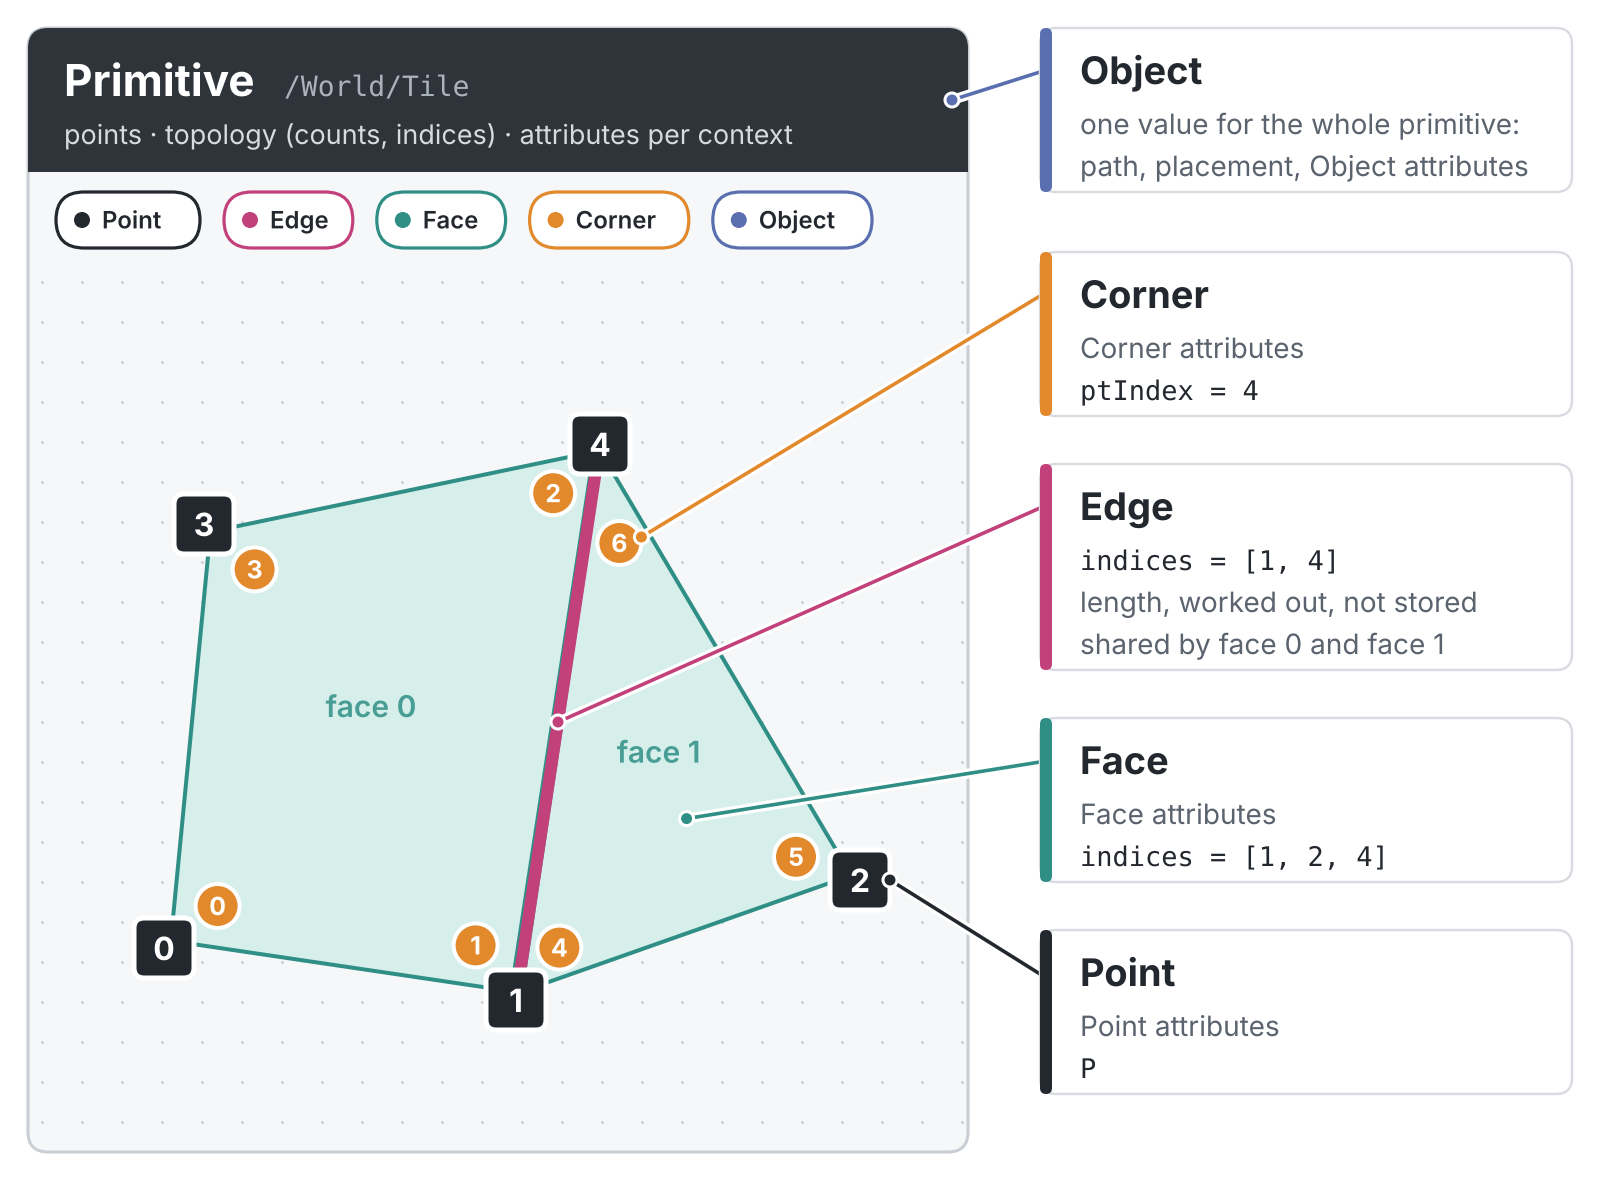
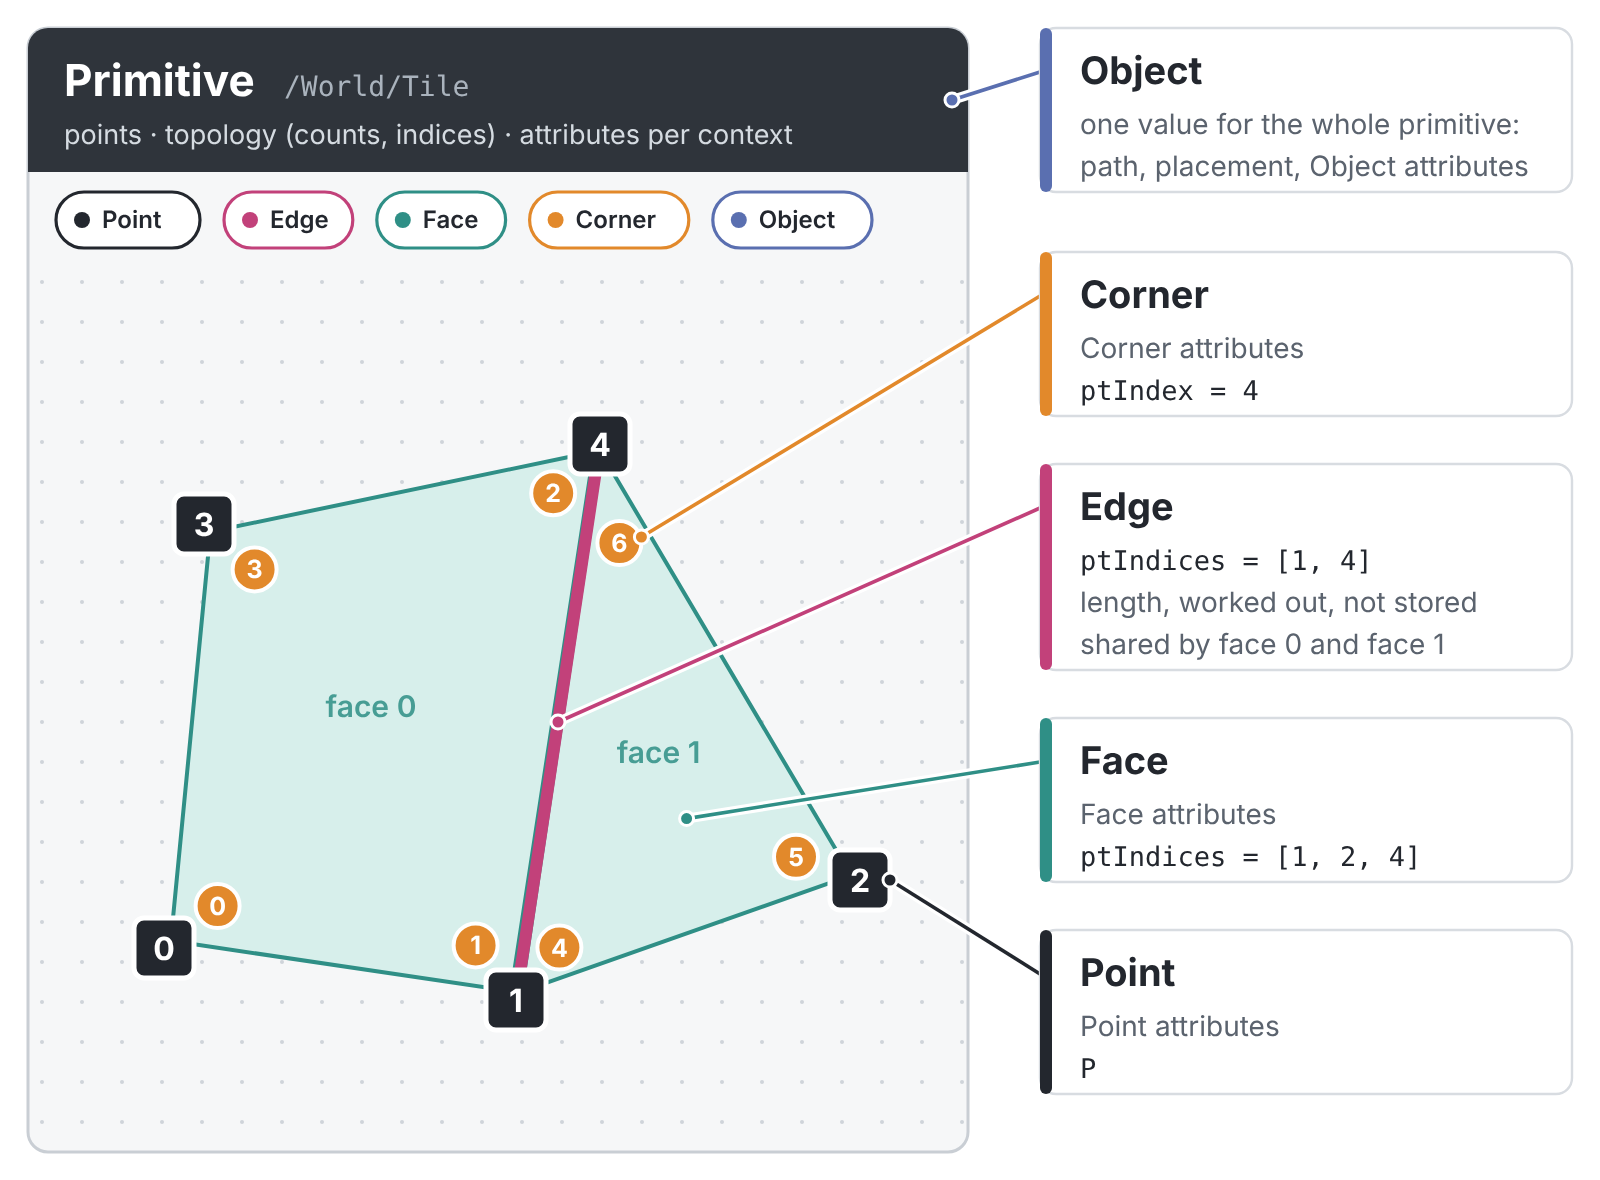
The parts of a primitive diagram in README, ARCHITECTURE and VOCABULARY; its labels say ptIndices

Changed region(s): [[0.6875, 0.7017, 0.875, 0.7322], [0.6562, 0.4576, 0.8438, 0.4881], [0.1875, 0.1831, 0.2188, 0.2136]]

diff --git a/ARCHITECTURE.md b/ARCHITECTURE.md
@@ -30,6 +30,10 @@ One model for primitives, nodes and ICE (`core::geo`).
 | `Face` | polygon / curve | `uniform` | per face |
 | `Corner` | polygon corner | `faceVarying` | per sample |
 
+![The parts of a primitive: points, edges, faces, corners and the primitive itself, each with what it holds](docs/imago_geo_parts_v3.png)
+
+Edges are not a context: they are worked out from the topology (each pair of points that follow each other around a face, or along a curve), so they carry no attributes of their own. The Primitive Inspector lists them, with their `ptIndices` and length.
+
 - **`Column`:** a typed array, `Arc<Vec<T>>` for `T` in `bool, i32, f32, [f32;2], [f32;3], [f32;4], quat, [f64;16], token`. This is the generalised `Array<T>`: every attribute in every context is one.
 - **`Attr`:** a column, plus optional indices (USD indexed primvars) and a role (point, normal, vector, colour, texCoord) for writing the right USD type.
 - **`Topology`:** `Points`, `Mesh` (counts, indices, orientation, subdivision scheme) or `Curves` (counts, basis, wrap). The arrays are `Arc` too.

diff --git a/DESIGN_PHILOSOPHY.md b/DESIGN_PHILOSOPHY.md
@@ -160,3 +160,4 @@ If you are an AI assistant working in this repository, read `LLM_instructions.md
 - 14/10/2026: results kept between evaluations, keyed by parameters and what is wired in; Edit Poly keyed by its operations only; Retarget and Reach on every core (Simon).
 - 14/10/2026: the Scene Explorer lists the scene at the view flag as its tree, with no row per operator; the Primitive Inspector shows the row selected there, or the whole scene at the view flag (Martino).
 - 14/10/2026: the Output node removed; one operator always has the view flag, which picks the output too; the Operator Stack starts at the viewed operator; graphs with Output open with the view on what was wired into it (Martino).
+- 14/10/2026: the diagram of a primitive's parts (`docs/imago_geo_parts_v3`) shown in the README, ARCHITECTURE and VOCABULARY, its labels brought to `ptIndices` (Martino).

diff --git a/README.md b/README.md
@@ -58,6 +58,10 @@ Edit Poly keeps a whole modelling session in one node, modelled on the Edit Poly
 
 ![One wheel picked and pulled out](docs/xms_usd_pick.png)
 
+Every primitive is one geometry, in USD's terms: points, faces (polygons or curves) and their corners, with attributes on each, and on the primitive as a whole. The Primitive Inspector shows them tab by tab, with edges worked out from the faces.
+
+![The parts of a primitive: point, edge, face, corner and object](docs/imago_geo_parts_v3.png)
+
 ## Motion capture, from take to engine
 
 Load a folder of FBX takes, split the characters, fix the pose, skin a proxy and write the files your engine wants, in one graph that runs over the whole folder.

diff --git a/VOCABULARY.md b/VOCABULARY.md
@@ -28,6 +28,10 @@ One word for one thing. **Primitives** are objects in the stage. The **scene gra
 | Face | polygon or curve | `uniform` |
 | Corner | polygon corner | `faceVarying` |
 
+![The parts of a primitive, with Imago's words for them](docs/imago_geo_parts_v3.png)
+
+The Primitive Inspector has a tab for each, and one for **Edge**, which is not a context: an edge is two points that follow each other around a face, worked out from the topology. A face's and an edge's points are its **ptIndices**; a corner's point is its **ptIndex**.
+
 ## Panes
 
 | Old name | New name | Why |
